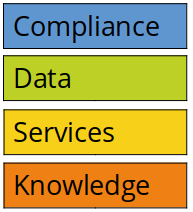
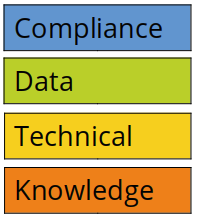
coordinator roles added

diff --git a/docs/coordination/services-model.md b/docs/coordination/services-model.md
@@ -76,7 +76,7 @@ To summarize, the separation of scientific aspects (data spaces and labs) from c
 
 ### New coordinator roles
 
-One intention with data spaces is to simplify coordination and knowledge transfers between labs under the same research group or center. Based on discussions from our last two coordinator tings we are now introducing cross-lab coordinators for the following areas: 
+One intention with data spaces is to simplify coordination and knowledge transfers between labs under the same research group or center. Based on discussions from our last two coordinator tings we are now introducing [cross-lab coordinators](/coordinator/roles) for the following areas: 
 
 ![Coordinator roles](./services/images/hunt-cloud-data-space-roles.png "HUNT Cloud data space coordinator roles")
 
@@ -84,12 +84,11 @@ One intention with data spaces is to simplify coordination and knowledge transfe
 
 * The **data coordinator** is the new point of contact for issues related to data inside the data space, including transfers, archiving, backups and similar for labs under the data space.
 
-* The **services coordinator** is the new point of contact for issues related to cloud services and analytical tools, including configurations, adjustments and maintenance for labs under the data space.
+* The **technical coordinator** is the new point of contact for issues related to technical aspects for cloud services and analytical tools, including configurations, adjustments and maintenance for labs under the data space.
 
 * The **knowledge coordinator** is the new point of contact for knowledge transfers between lab users across labs under the data space, including know-hows related to user onboardings, common tasks, practical analytical setups, documentation etc.
 
 A second goal of this setup is to enhance exchanges of scientific coordination expertise between data spaces within similar roles. We are already looking forward to [Ting week #4](/tingweek/) in October!
-
 
 
 

diff --git a/docs/coordination/roles.md b/docs/coordination/roles.md
@@ -7,7 +7,7 @@ description: This page contains information on the coordinator roles in HUNT Clo
 
 # Coordinator roles
 
-**High impact science needs smooth and seamless coordination to fly. Scientific coordinators are the personnel that guard this magic dust. We have established several coordinator  roles to help with this work.**
+**High impact science needs smooth and seamless coordination to fly. Scientific coordinators are the personnel that make this magic dust. We have established several coordinator  roles to help with this work.**
 
 [[toc]]
 
